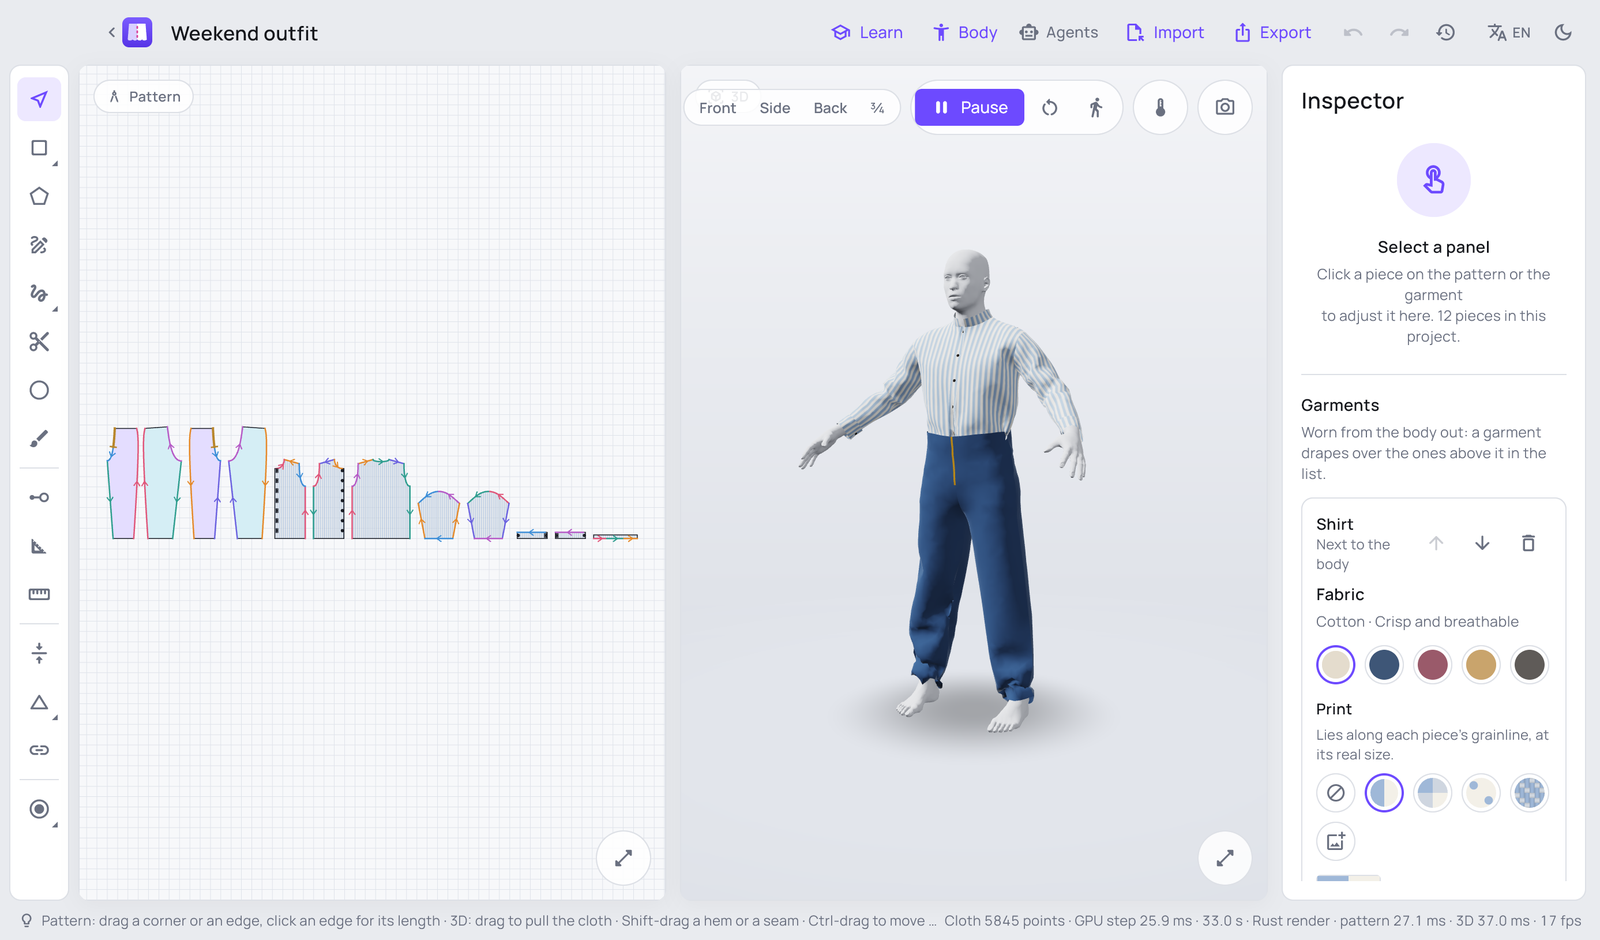
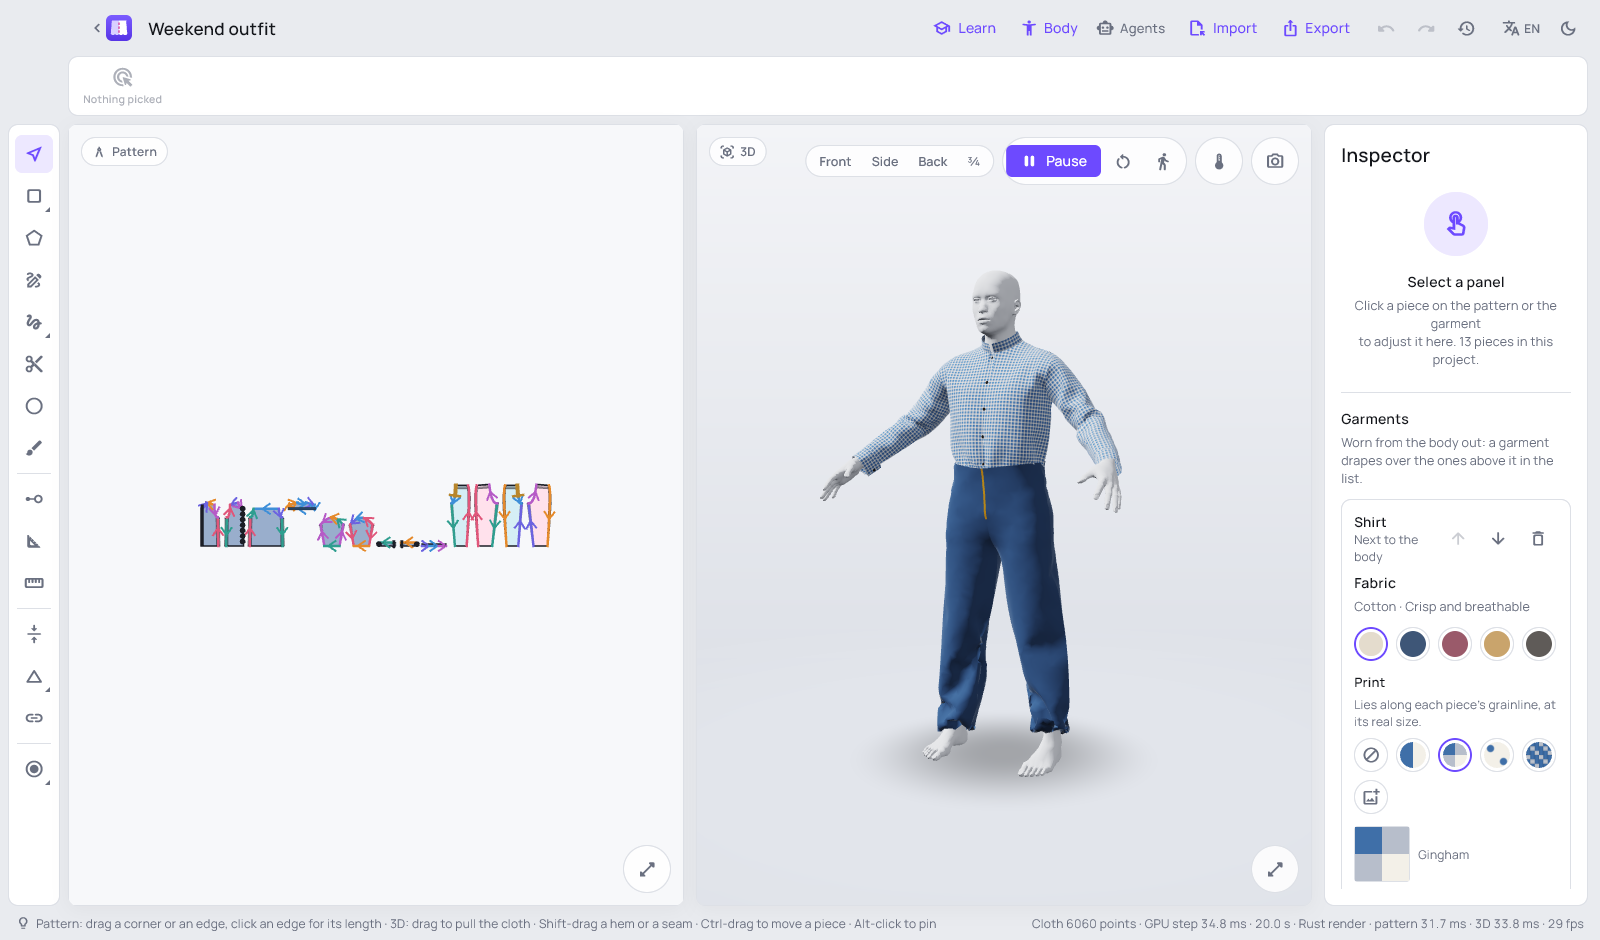
README: a new screenshot (a gingham shirt tucked into denim trousers, graded 44 to 56), the construction details, Seamly2D and Valentina import, and the Agents button

diff --git a/README.md b/README.md
@@ -19,7 +19,7 @@
 ---
 
 <p align="center">
-  <img src="assets/screenshots/app.png" alt="Rustle3D: the pattern of a shirt and trousers on the left, the outfit draped on an avatar in the middle, the inspector on the right" width="900">
+  <img src="assets/screenshots/app.png" alt="Rustle3D: the pattern of a gingham shirt and denim trousers on the left, the shirt tucked into the trousers and draped on an avatar in the middle, the inspector on the right" width="900">
 </p>
 
 Rustle3D is a free desktop app for making clothes: draft the pattern in
@@ -58,13 +58,13 @@ The 3D view needs a graphics card with Metal (macOS), Direct3D 12
 | Area | What you can do |
 |---|---|
 | **Patterns (2D)** | Start from templates drafted to the body's measurements (T-shirt, shirt, dress, skirts, trousers, tote bag) or draw pieces with polygon, curve and cut tools. Constraints, dimensions, formulas (`waist / 4 + 10 mm`), darts, pleats, holes, symmetric half pieces, notches and internal lines. |
-| **Sewing** | Sew edges together, see direction and length mismatches, gather, add ease, match both sides in one click. Buttons and zippers close the garment. |
+| **Sewing** | Sew edges together, see direction and length mismatches, gather, add ease, match both sides in one click. Buttons and zippers close the garment. Construction details: elastic and shirring, topstitching, interfacing, quilting over a padding. |
 | **Drape (3D)** | Real-time XPBD cloth simulation on the GPU, with collisions, self-collision, pins and pulling the cloth with the mouse. Several garments in layers. Fabric presets (cotton, denim, jersey, silk, wool) and prints that follow the grainline. |
 | **Avatars** | A parametric body set by its measurements, imported scans and characters (OBJ, glTF), walking motions and captured motions (BVH). |
 | **Sizes and fit** | Grading over a size range, each size draped on a matching body; fit maps and a virtual tape measure. |
 | **Production** | Markers with yardage and cost, a tech pack PDF, a projector mode for cutting on the table. |
 | **Images** | Path-traced studio photos of the draped garment. |
-| **Exchange** | Open formats only: patterns in SVG, PDF (1:1, tiled), DXF-AAMA; DXF, SVG and PDF import; the draped garment in glTF/GLB and OBJ, and game-ready exports (LODs, normal maps, skinning). |
+| **Exchange** | Open formats only: patterns in SVG, PDF (1:1, tiled), DXF-AAMA; DXF, SVG and PDF import, Seamly2D and Valentina patterns and measurement files; the draped garment in glTF/GLB and OBJ, and game-ready exports (LODs, normal maps, skinning). |
 | **Automation** | A headless CLI (`r3d`) and an MCP server, headless or attached live to the open app. |
 
 The app is in English and French.
@@ -82,8 +82,9 @@ r3d render Skirt.r3d --view photo --out skirt.png  # a studio photo of it
 r3d mcp --project Skirt.r3d                        # serve it to an AI agent over MCP
 ```
 
-The app can also let an agent work on the project open on screen (an
-option in the app, off by default). Every command and its parameters:
+The app can also let an agent work on the project open on screen: its
+**Agents** button walks you through it (off by default) and gives the
+settings to copy into your agent. Every command and its parameters:
 [`docs/commands.md`](docs/commands.md).
 
 ## Building from source and contributing
